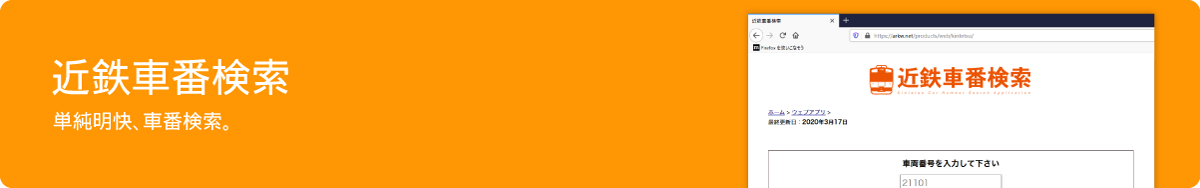
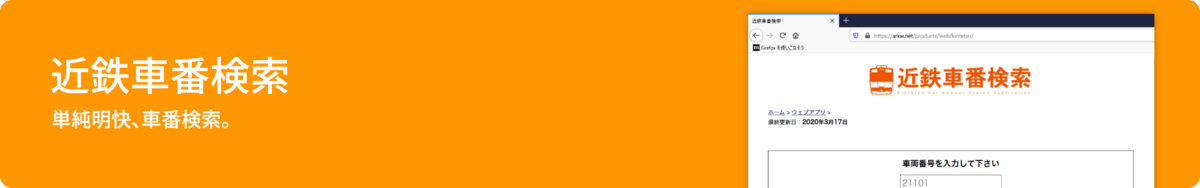
トップページのスライドショー画像を差し替え

diff --git a/index.html b/index.html
@@ -91,6 +91,18 @@
 				<p>
 					<table>
 						<tr>
+							<th>2021/12/16</th>
+							<td>
+								トップページのスライドショー画像を差し替え
+							</td>
+						</tr>
+						<tr>
+							<th>2021/12/14</th>
+							<td>
+								「三菱 ミニカ H42V」のページを更新
+							</td>
+						</tr>
+						<tr>
 							<th>2021/11/26</th>
 							<td>
 								ウェブアプリ「Ahoxa」 Ver.1.5.2を公開<br>
@@ -107,20 +119,6 @@
 							<th>2021/11/20</th>
 							<td>
 								「三菱 ミニカ H42V」「Shiori Server」のページを更新
-							</td>
-						</tr>
-						<tr>
-							<th>2021/11/17</th>
-							<td>
-								トップページを更新<br>
-								「荒川の同人活動」ページを更新
-							</td>
-						</tr>
-						<tr>
-							<th>2021/11/16</th>
-							<td>
-								Windows向けフリーゲーム「QubeFall」 Ver.1.1.1を公開<br>
-								ウェブアプリ「Ahoxa」 Ver.1.5.0を公開
 							</td>
 						</tr>
 					</table>

diff --git a/history.html b/history.html
@@ -31,6 +31,14 @@
 
 				<h3>2021年</h3>
 				<p>
+					<b>2021/12/16</b><br>
+					トップページのスライドショー画像を差し替え
+				</p>
+				<p>
+					<b>2021/12/14</b><br>
+					「三菱 ミニカ H42V」のページを更新
+				</p>
+				<p>
 					<b>2021/11/26</b><br>
 					ウェブアプリ「Ahoxa」 Ver.1.5.2を公開<br>
 					「Shiori Server」のページを更新

diff --git a/js/main.js b/js/main.js
@@ -1,6 +1,10 @@
 let pmid = "windows";
 const slideShow = [
 	{
+		Image: "md_qubefall",
+		URL: "https://arkw.net/products/pc_game/qubefall/"
+	},
+	{
 		Image: "md_prohaya",
 		URL: "https://arkw.net/products/web/prohaya/"
 	},
